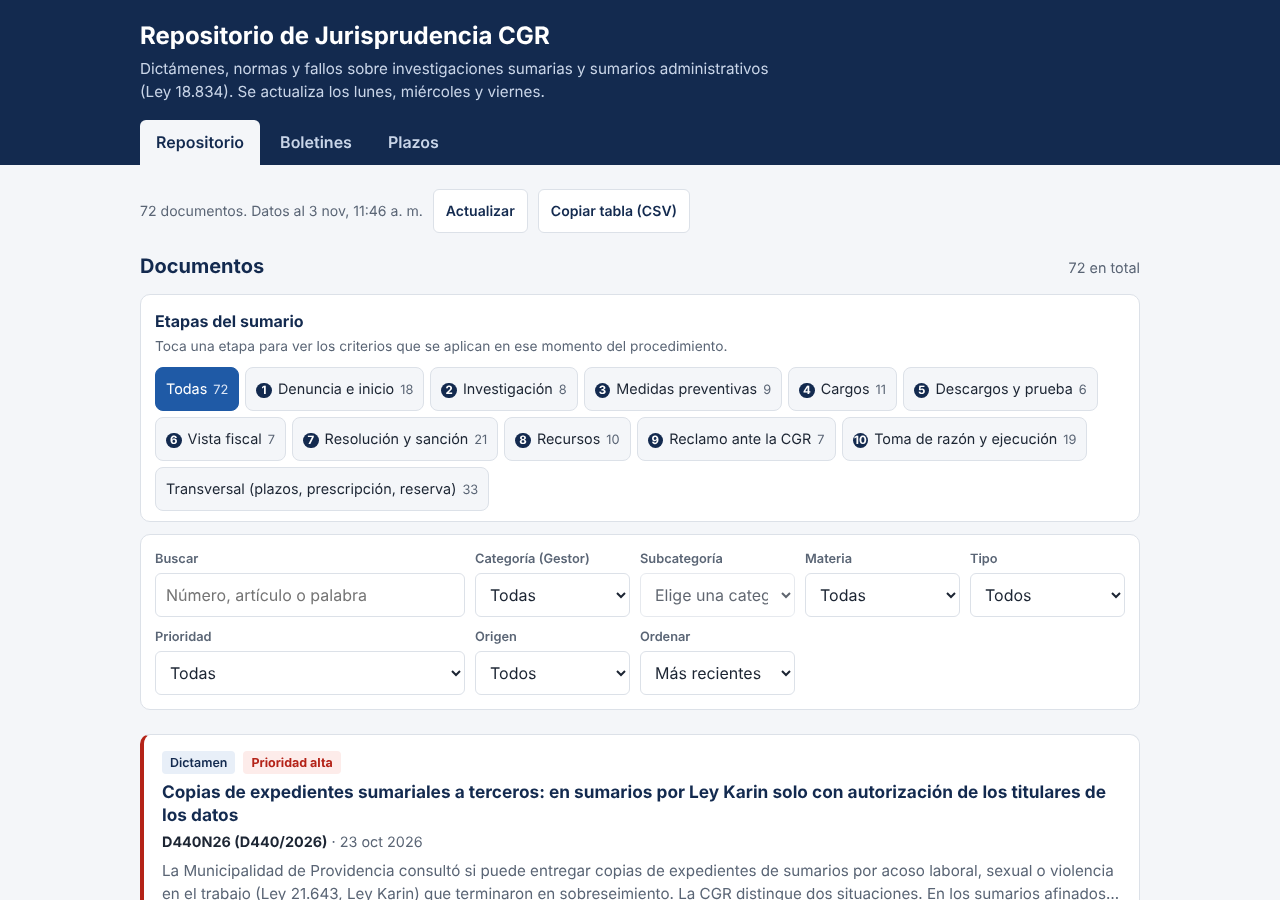
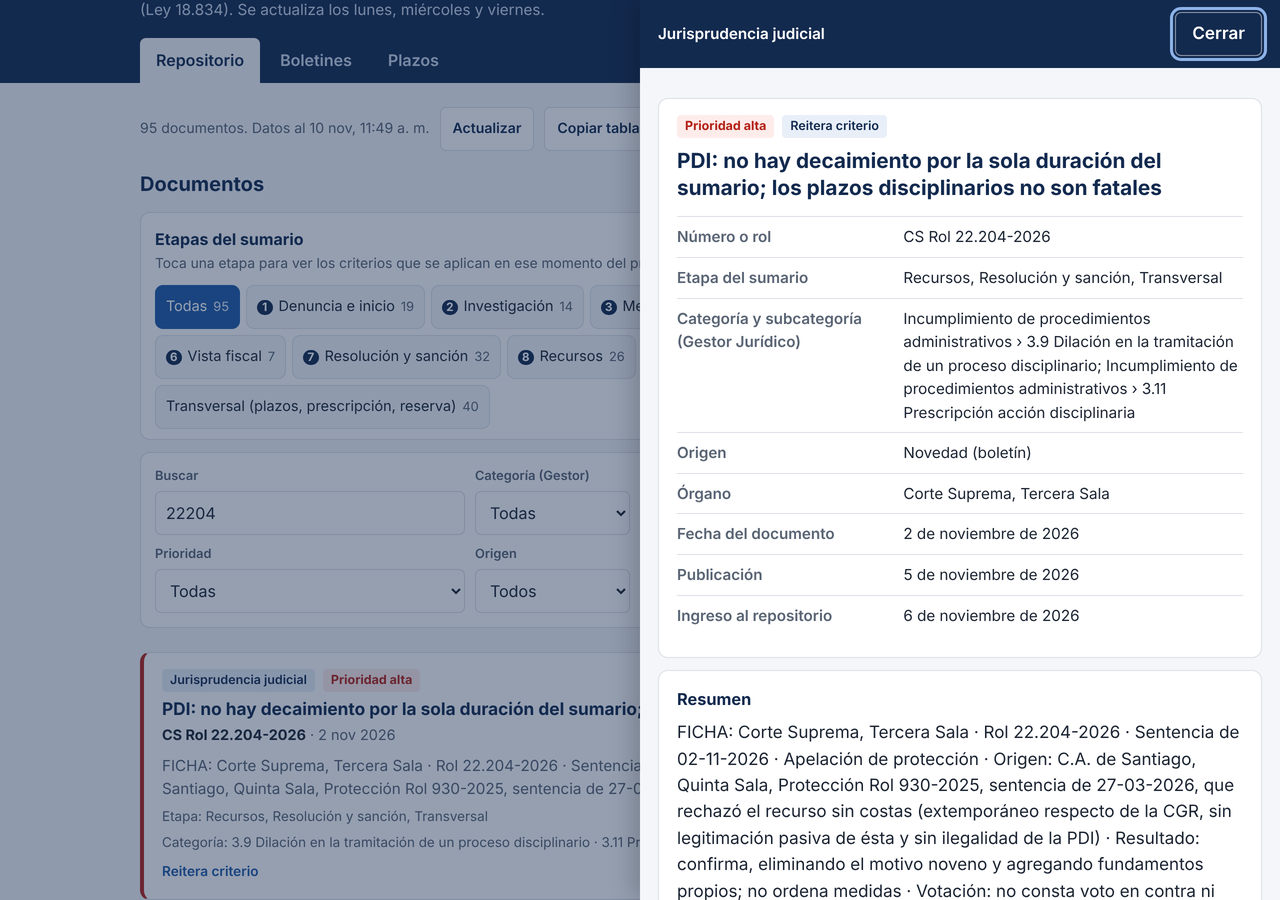
Propuesta de diseño semanal (10-11-2026): toque tras buscar, búsqueda sin tildes, ficha en móvil, enlaces en Cómo ubicarlo, foco y teclado
Claude-Session: https://claude.ai/code/session_01NSk6HcSZPWmdFUrSd1K3Ud

diff --git a/propuesta/index.html b/propuesta/index.html
@@ -20,7 +20,8 @@ html{-webkit-text-size-adjust:100%}
 body{margin:0;background:var(--fondo);color:var(--texto);font:17px/1.55 var(--font)}
 a{color:var(--azul)}
 button,input,select,textarea{font:inherit;color:inherit}
-:focus-visible{outline:3px solid #8DB3E8;outline-offset:2px}
+:focus-visible{outline:3px solid var(--azul);outline-offset:2px}
+.cabecera :focus-visible,.ficha-cab :focus-visible{outline-color:#8DB3E8}
 .contenedor{max-width:1040px;margin:0 auto;padding-left:20px;padding-right:20px}
 [hidden]{display:none!important}
 
@@ -65,7 +66,8 @@ main.contenedor{padding-top:24px;padding-bottom:60px}
 .etiqueta.base{background:#E8F1EA;color:#25633A}
 .enlace-estado{font-size:.85rem;margin:0 0 8px;color:var(--gris,#5b6575)}
 .enlace-estado.oficial_directo{color:#25633A;font-weight:600}
-.como-ubicar{font-size:.9rem;margin:8px 0;background:#F4F6F9;padding:8px 10px;border-radius:6px}
+.como-ubicar a{display:inline;font-weight:400;margin:0}
+.como-ubicar{overflow-wrap:anywhere;word-break:break-word;font-size:.9rem;margin:8px 0;background:#F4F6F9;padding:8px 10px;border-radius:6px}
 .chips{display:flex;flex-wrap:wrap;gap:6px;margin-bottom:12px}
 .chips button{background:var(--azul-claro);color:var(--azul);border:0;border-radius:999px;padding:5px 14px;min-height:44px;font-size:.85rem;font-weight:600;cursor:pointer}
 
@@ -113,7 +115,7 @@ main.contenedor{padding-top:24px;padding-bottom:60px}
 .datos td{padding:8px 0;border-top:1px solid var(--borde);word-break:break-word}
 .bloque{padding:16px 18px;margin-top:12px}
 .bloque h3{margin:0 0 8px;font-size:1.02rem;color:var(--navy)}
-.bloque p{margin:0;white-space:pre-line}
+.bloque p{margin:0;white-space:pre-line;overflow-wrap:anywhere}
 .bloque.practica{background:var(--azul-claro);border-color:#C9DAF0}
 .texto-gris{color:var(--gris);font-size:.93rem}
 .enlaces a{display:block;font-weight:600;margin-bottom:6px}
@@ -178,6 +180,9 @@ footer{color:var(--gris);font-size:.85rem;border-top:1px solid var(--borde);padd
   .pestanas button .beta{display:none}
   .boletin{padding:18px}
   .doc{padding:14px}
+  .datos th,.datos td{display:block;width:auto}
+  .datos th{padding:10px 0 0;border-top:1px solid var(--borde);font-size:.9rem}
+  .datos td{padding:2px 0 10px;border-top:0;font-size:1rem}
   .filtros:not(.abierto) > div:not(.f-buscar){display:none!important}
   .mas-filtros{display:block;grid-column:1/-1;width:100%;text-align:center}
   .mas-filtros[aria-expanded=true]{background:var(--azul-claro);border-color:#C9DAF0}
@@ -200,10 +205,10 @@ footer{color:var(--gris);font-size:.85rem;border-top:1px solid var(--borde);padd
     <h1>Repositorio de Jurisprudencia CGR</h1>
     <p>Dictámenes, normas y fallos sobre investigaciones sumarias y sumarios administrativos (Ley 18.834). Se actualiza los lunes, miércoles y viernes.</p>
     <nav class="pestanas" role="tablist" aria-label="Secciones">
-      <button type="button" role="tab" data-vista="repositorio" aria-selected="true">Repositorio</button>
-      <button type="button" role="tab" data-vista="boletines" aria-selected="false">Boletines</button>
-      <button type="button" role="tab" data-vista="plazos" aria-selected="false">Plazos</button>
-      <button type="button" role="tab" data-vista="abogado" aria-selected="false" id="tab-abogado" hidden>Abogado<span class="beta">beta</span></button>
+      <button type="button" role="tab" id="tab-repositorio" aria-controls="v-repositorio" data-vista="repositorio" aria-selected="true">Repositorio</button>
+      <button type="button" role="tab" id="tab-boletines" aria-controls="v-boletines" data-vista="boletines" aria-selected="false">Boletines</button>
+      <button type="button" role="tab" id="tab-plazos" aria-controls="v-plazos" data-vista="plazos" aria-selected="false">Plazos</button>
+      <button type="button" role="tab" data-vista="abogado" aria-controls="v-abogado" aria-selected="false" id="tab-abogado" hidden>Abogado<span class="beta">beta</span></button>
     </nav>
   </div>
 </header>
@@ -212,7 +217,7 @@ footer{color:var(--gris);font-size:.85rem;border-top:1px solid var(--borde);padd
   <div id="aviso"></div>
   <div class="barra-estado"><span id="estado">Cargando…</span><button class="boton-sec" id="recargar" type="button">Actualizar</button><button class="boton-sec" id="copiar" type="button">Copiar tabla (CSV)</button></div>
 
-  <section id="v-repositorio">
+  <section id="v-repositorio" role="tabpanel" aria-labelledby="tab-repositorio">
     <div class="titulo-seccion"><h2>Documentos</h2><span id="cuenta" aria-live="polite"></span></div>
     <div class="panel etapas"><h3>Etapas del sumario</h3><p>Toca una etapa para ver los criterios que se aplican en ese momento del procedimiento.</p><div class="etapas-lista" id="etapas" role="group" aria-label="Filtrar por etapa"></div></div>
     <div class="filtros panel" id="filtros">
@@ -231,9 +236,9 @@ footer{color:var(--gris);font-size:.85rem;border-top:1px solid var(--borde);padd
     <div class="lista" id="lista"></div>
   </section>
 
-  <section id="v-boletines" hidden><div id="boletin"></div><div id="ediciones"></div></section>
+  <section id="v-boletines" role="tabpanel" aria-labelledby="tab-boletines" hidden><div id="boletin"></div><div id="ediciones"></div></section>
 
-  <section id="v-abogado" hidden>
+  <section id="v-abogado" role="tabpanel" aria-labelledby="tab-abogado" hidden>
     <div class="panel abogado-intro">
       <h2>Consulta al abogado<span class="beta">beta</span></h2>
       <p>Responde como un abogado experto en derecho administrativo y sumarios, usando los documentos de este repositorio. Es una función en prueba: revisa siempre el documento original antes de aplicar una respuesta.</p>
@@ -248,7 +253,7 @@ footer{color:var(--gris);font-size:.85rem;border-top:1px solid var(--borde);padd
     </div>
   </section>
 
-  <section id="v-plazos" class="plazos" hidden>
+  <section id="v-plazos" class="plazos" role="tabpanel" aria-labelledby="tab-plazos" hidden>
     <div class="panel"><table class="tabla-plazos"><caption>Investigación sumaria</caption>
       <thead><tr><th>Trámite</th><th>Plazo</th><th>Norma</th></tr></thead><tbody>
       <tr><th scope="row">Notificar al denunciante si se desestima su denuncia (art. 84 l y m)</th><td class="plazo">5 días</td><td class="norma">Art. 126, resolución fundada; puede reclamar por el art. 160</td></tr>
@@ -307,6 +312,8 @@ function $(s){ return document.querySelector(s); }
 function esc(s){ return String(s == null ? "" : s).replace(/[&<>"']/g, function(c){ return {"&":"&amp;","<":"&lt;",">":"&gt;",'"':"&quot;","'":"&#39;"}[c]; }); }
 function fecha(d, largo){ if (!d) return ""; return new Date(d + "T12:00:00").toLocaleDateString("es-CL", largo ? {day:"numeric", month:"long", year:"numeric"} : {day:"numeric", month:"short", year:"numeric"}); }
 function safeUrl(u){ return /^https?:\/\//i.test(u || "") ? u : null; }
+/* Búsqueda sin distinguir tildes ni mayúsculas, y números con o sin puntos (22.204 = 22204) */
+function norm(s){ s = String(s == null ? "" : s).toLowerCase(); if (s.normalize) s = s.normalize("NFD").replace(/[\u0300-\u036f]/g, ""); return s.replace(/(\d)\.(?=\d)/g, "$1"); }
 function cap(s){ return s ? s.charAt(0).toUpperCase() + s.slice(1) : ""; }
 function ordenFecha(r){ return r.fecha_documento || r.fecha_publicacion || ""; }
 var prioPeso = {alta:0, media:1, baja:2};
@@ -426,7 +433,7 @@ function opciones(){
 }
 
 function visibles(){
-  var q = $("#q").value.trim().toLowerCase(), t = $("#f-tipo").value, m = $("#f-materia").value, p = $("#f-prio").value, o = $("#f-origen").value, kc = $("#f-cat").value, ks = $("#f-sub").value, s = mcp ? $("#f-seg").value : "";
+  var q = norm($("#q").value.trim()), t = $("#f-tipo").value, m = $("#f-materia").value, p = $("#f-prio").value, o = $("#f-origen").value, kc = $("#f-cat").value, ks = $("#f-sub").value, s = mcp ? $("#f-seg").value : "";
   var ed = null;
   if (edicionSel) { var b = bols.filter(function(x){ return x.fecha === edicionSel; })[0]; ed = b ? (b.dictamen_ids || []) : []; }
   var v = rows.filter(function(r){
@@ -441,7 +448,8 @@ function visibles(){
     if (o === "nuevo" && r.linea_base) return false;
     if (s && ((notas[r.id] && notas[r.id].estado) || "pendiente") !== s) return false;
     if (q) {
-      var h = [r.numero, r.titulo, r.resumen, r.criterio, r.consecuencias_practicas, r.organo, (r.articulos || []).join(" "), (r.materias || []).join(" "), (r.dictamenes_relacionados || []).join(" "), (r.subcategorias || []).map(nombreSub).join(" ")].join(" ").toLowerCase();
+      var h = [r.numero, r.titulo, r.resumen, r.criterio, r.consecuencias_practicas, r.organo, (r.articulos || []).join(" "), (r.materias || []).join(" "), (r.dictamenes_relacionados || []).join(" "), (r.subcategorias || []).map(nombreSub).join(" ")].join(" ");
+      h = norm(h);
       if (!q.split(/\s+/).every(function(w){ return h.indexOf(w) >= 0; })) return false;
     }
     return true;
@@ -493,6 +501,8 @@ var ESTADO_ENLACE = {
   secundaria: "Solo disponible en una fuente no oficial.",
   sin_enlace: "Sin enlace disponible."
 };
+/* Convierte en enlaces tocables las direcciones web escritas dentro de «Cómo ubicarlo» */
+function enlazar(t){ return esc(t).replace(/https?:\/\/[^\s<]+[^\s<.,;:)]/g, function(u){ return '<a href="' + u + '" target="_blank" rel="noopener">' + u + '</a>'; }); }
 function fila(t, v){ return v ? '<tr><th scope="row">' + t + '</th><td>' + esc(v) + '</td></tr>' : ""; }
 function abrir(id){
   var r = rows.filter(function(x){ return x.id === id; })[0]; if (!r) return;
@@ -514,7 +524,7 @@ function abrir(id){
     + '<div class="panel bloque enlaces"><h3>Documento original y fuente</h3>'
       + '<p class="enlace-estado ' + esc(r.enlace_estado || "") + '">' + esc(ESTADO_ENLACE[r.enlace_estado] || "") + '</p>'
       + (uo ? '<a href="' + esc(uo) + '" target="_blank" rel="noopener">' + (/pjud\.cl/.test(uo) ? "Abrir la consulta de causas del Poder Judicial" : r.enlace_estado === "oficial_busqueda" ? "Abrir el sitio oficial" : "Abrir el documento oficial") + '</a>' : '<p class="texto-gris">Sin enlace directo al original: búscalo en contraloria.cl o pjud.cl con el número indicado.</p>')
-      + (r.como_ubicar ? '<p class="como-ubicar"><strong>Cómo ubicarlo:</strong> ' + esc(r.como_ubicar) + '</p>' : "")
+      + (r.como_ubicar ? '<p class="como-ubicar"><strong>Cómo ubicarlo:</strong> ' + enlazar(r.como_ubicar) + '</p>' : "")
       + (uf ? '<a href="' + esc(uf) + '" target="_blank" rel="noopener">Ver la fuente complementaria (' + esc(r.fuente_nombre || "enlace") + ')</a>' : "") + '</div>'
     + (mcp ? '<div class="panel bloque"><h3>Mi seguimiento</h3><div class="nota">'
       + '<select id="n-estado" aria-label="Estado">' + ["pendiente","leído","aplicado","no aplica"].map(function(e){ return '<option value="' + e + '"' + (e === n.estado ? " selected" : "") + '>' + cap(e) + '</option>'; }).join("") + '</select>'
@@ -613,7 +623,7 @@ function nuevaConsulta(){ if (ctlAbogado) ctlAbogado.abort(); turnos = []; pinta
 function vista(v){
   var vistas = ["repositorio","boletines","plazos"]; if (sampleFn) vistas.push("abogado");
   if (vistas.indexOf(v) < 0) v = "repositorio";
-  document.querySelectorAll(".pestanas button").forEach(function(b){ b.setAttribute("aria-selected", b.getAttribute("data-vista") === v ? "true" : "false"); });
+  document.querySelectorAll(".pestanas button").forEach(function(b){ var sel = b.getAttribute("data-vista") === v; b.setAttribute("aria-selected", sel ? "true" : "false"); b.tabIndex = sel ? 0 : -1; });
   ["repositorio","boletines","plazos","abogado"].forEach(function(x){ $("#v-" + x).hidden = x !== v; });
 }
 document.querySelectorAll(".pestanas button").forEach(function(b){ b.onclick = function(){ var v = b.getAttribute("data-vista"); location.hash = v; vista(v); }; });
@@ -633,10 +643,25 @@ document.addEventListener("click", function(e){
 });
 document.addEventListener("keydown", function(e){
   if (e.key === "Escape" && !$("#ficha").hidden) cerrar();
+  if (e.key === "Tab" && !$("#ficha").hidden) {
+    var fs = [].filter.call($("#ficha").querySelectorAll("button,a[href],select,textarea,input"), function(x){ return !x.disabled && x.offsetParent !== null; });
+    if (fs.length) {
+      var pri = fs[0], ult = fs[fs.length - 1], act = document.activeElement;
+      if (e.shiftKey && (act === pri || act === $("#ficha"))) { e.preventDefault(); ult.focus(); }
+      else if (!e.shiftKey && (act === ult || !$("#ficha").contains(act))) { e.preventDefault(); pri.focus(); }
+    }
+  }
+  if ((e.key === "ArrowRight" || e.key === "ArrowLeft") && e.target.getAttribute && e.target.getAttribute("role") === "tab") {
+    var ts = [].filter.call(document.querySelectorAll(".pestanas button"), function(x){ return !x.hidden; });
+    var i = ts.indexOf(e.target), sig = ts[(i + (e.key === "ArrowRight" ? 1 : -1) + ts.length) % ts.length];
+    sig.focus(); sig.click();
+  }
   if ((e.key === "Enter" || e.key === " ") && e.target.classList && e.target.classList.contains("doc")) { e.preventDefault(); abrir(e.target.getAttribute("data-id")); }
 });
 $("#f-cat").addEventListener("change", function(){ $("#f-sub").value = ""; opcionesSub(); });
-["#q","#f-tipo","#f-materia","#f-prio","#f-origen","#f-seg","#f-orden","#f-cat","#f-sub"].forEach(function(s){ $(s).addEventListener("input", lista); $(s).addEventListener("change", lista); });
+/* El buscador se actualiza solo al escribir: si también lo hiciera al salir del campo (change), la lista se redibujaba justo al tocar un resultado y el toque se perdía */
+$("#q").addEventListener("input", lista);
+["#f-tipo","#f-materia","#f-prio","#f-origen","#f-seg","#f-orden","#f-cat","#f-sub"].forEach(function(s){ $(s).addEventListener("change", lista); });
 $("#velo").onclick = cerrar;
 $("#mas-filtros").onclick = function(){ var f = $("#filtros"), a = !f.classList.contains("abierto"); f.classList.toggle("abierto", a); this.setAttribute("aria-expanded", a ? "true" : "false"); };
 $("#recargar").onclick = cargar;

diff --git a/propuesta/CAMBIOS.md b/propuesta/CAMBIOS.md
@@ -1,23 +1,26 @@
-# Propuesta de diseño – 03-11-2026
+# Propuesta de diseño – 10-11-2026
 
 Propuesta semanal pendiente de aprobación. No modifica el sitio publicado (`index.html` de la raíz). Para verla en el teléfono: https://jvergara2018-design.github.io/repositorio-cgr/propuesta/
 
-## Cambios
+**Incluye también la propuesta del 03-11-2026**, que no se alcanzó a publicar: filtros plegables en el teléfono («Más filtros»), campos de 16 px y botones de 44 px, mensaje «No se pudieron cargar los documentos» con «Reintentar» y etiquetas más legibles. Si apruebas, se publican ambas semanas juntas.
 
-1. **En el teléfono, la lista aparece antes.** Hoy, en un iPhone, hay que bajar casi una pantalla completa de filtros antes de ver el primer documento. Ahora el buscador queda siempre a la vista y los otros filtros (categoría, materia, tipo, prioridad, origen, orden y Mi seguimiento) se abren con un botón «Más filtros», que además indica cuántos están activos (por ejemplo, «Más filtros (2 activos)»). En el computador los filtros se ven igual que antes.
-2. **Campos y botones cómodos para el dedo y sin zoom en Safari.** Los campos de búsqueda y las listas desplegables pasan a letra de 16 px: con letra más chica, el iPhone hace zoom automático al tocarlos y descuadra la página. Los botones (Actualizar, Copiar tabla, etapas del sumario, Cerrar ficha, documentos de un boletín, Quitar filtros, Mi seguimiento y Abogado) quedan con al menos 44 px de alto, el mínimo recomendado para tocar sin errores.
-3. **Mensaje claro cuando no cargan los datos.** Si no hay conexión y no existe copia guardada, la lista ya no dice «Todavía no hay documentos cargados» (que da a entender que el repositorio está vacío), sino «No se pudieron cargar los documentos» con un botón «Reintentar». El aviso de error y el contador de resultados («4 de 72») ahora los anuncia el lector de pantalla.
-4. **Etiquetas un poco más grandes en el teléfono.** Tipo, prioridad, etapa, categoría y efecto jurisprudencial de cada tarjeta suben de unos 12-13 px a 14 px, para leerlas sin acercar la pantalla.
+## Cambios nuevos de esta semana
 
-No se tocaron colores, tipografía, estructura, la ficha lateral, los dos modos de datos (REST público y conector de claude.ai), Mi seguimiento ni la pestaña Abogado (beta). Se probó con los 72 documentos y 2 boletines reales, en 390×844 y 1280×900, modo claro y oscuro, el filtro plegable, la apertura de la ficha con teclado y el modo claude.ai simulado, sin errores de JavaScript.
+1. **Tocar un resultado después de buscar ya abre la ficha al primer intento.** Hoy, si escribes en el buscador y luego tocas un documento de la lista, no pasa nada: hay que tocarlo dos veces. Ocurre porque la lista se volvía a dibujar justo al salir del buscador y el toque se perdía. Ahora la lista se actualiza solo mientras escribes, y el primer toque funciona (probado en teléfono y computador).
+2. **El buscador encuentra con o sin tildes, y los números con o sin puntos.** Hoy, buscar «prescripcion» (sin tilde, como se escribe rápido en el teléfono) da **0 resultados**, mientras «prescripción» da 13. Lo mismo con «22204» frente a «22.204». Ahora ambas formas dan el mismo resultado: «prescripcion» → 13, «22204» → CS Rol 22.204-2026, «sernac indemnizacion» → CS Rol 2.987-2026. Las mayúsculas tampoco importan.
+3. **La ficha se lee mejor en el teléfono.** En pantallas angostas, los datos de la ficha (número, etapa, categoría, órgano, fechas) se muestran con la etiqueta arriba y el valor abajo, a todo el ancho y en letra de 16 px, en vez de dos columnas estrechas donde la categoría ocupaba hasta 10 líneas. En el computador se ve igual que antes.
+4. **«Cómo ubicarlo» sin desbordes y con enlaces tocables.** Las direcciones web largas de «Cómo ubicarlo» se salían del recuadro y hacían que la ficha se moviera hacia el lado (69 px de desplazamiento lateral en un iPhone). Ahora se cortan dentro del recuadro y además se pueden tocar para abrir el texto de la sentencia, en vez de tener que copiarlas.
+5. **Mejor uso con teclado y lector de pantalla.** El recuadro que marca dónde está el foco ahora es azul oscuro sobre fondo claro (antes era celeste pálido y casi no se veía sobre blanco); en el encabezado se mantiene claro. Con la ficha abierta, la tecla Tab recorre solo la ficha (antes se escapaba a la página de atrás), y las pestañas Repositorio/Boletines/Plazos se pueden cambiar con las flechas ← →.
+
+No se tocaron colores base, tipografía, estructura, los dos modos de datos (REST público y conector de claude.ai), Mi seguimiento ni la pestaña Abogado (beta). Se probó con los 95 documentos y 5 boletines actuales, en 390×844 y 1280×900, modo claro y oscuro (el sitio no tiene modo oscuro propio y se ve igual), listado, ficha, boletines, plazos, búsqueda, teclado, estado de error y modo claude.ai simulado, sin errores de JavaScript. El código no usa sintaxis nueva (compatible con Safari antiguo).
 
 ## Capturas
 
-Antes (teléfono): ![antes](antes-movil.png)
+Antes (teléfono: búsqueda sin tilde sin resultados, ficha en dos columnas, enlaces que se salen): ![antes](antes-movil.png)
 
 Después (teléfono): ![después](despues-movil.png)
 
-Después (escritorio): ![después escritorio](despues-escritorio.png)
+Después (escritorio, búsqueda «22204» y ficha abierta): ![después escritorio](despues-escritorio.png)
 
 ## Observación para más adelante
-El sitio no tiene modo oscuro: en un teléfono con modo oscuro se ve igual que en modo claro (se lee bien). No se propone ahora porque implica definir nuevos colores; puede evaluarse si el usuario lo pide.
+Sigue sin modo oscuro (se lee bien en modo claro). En el teléfono, el encabezado con la descripción y la barra «Actualizar / Copiar tabla» ocupan casi un tercio de la pantalla antes del buscador; podría compactarse en una próxima revisión.

diff --git a/DISENO-NOTAS.md b/DISENO-NOTAS.md
@@ -22,3 +22,4 @@ Registro de decisiones para las revisiones semanales del diseño. Cada revisión
 ## Historial de propuestas semanales
 (La revisión semanal agrega aquí una línea por semana: fecha, cambios propuestos y si se publicaron o se descartaron.)
 - 2026-11-03: propuesta con filtros plegables en el teléfono («Más filtros» con contador), campos de 16 px y botones de 44 px, mensaje de error con «Reintentar» y etiquetas más legibles en el teléfono, pendiente de aprobación.
+- 2026-11-10: propuesta con primer toque que abre la ficha tras buscar, búsqueda sin tildes y números sin puntos, ficha en una columna en el teléfono, enlaces tocables y sin desborde en «Cómo ubicarlo», y foco visible/teclado (incluye la propuesta del 03-11 no publicada), pendiente de aprobación.
